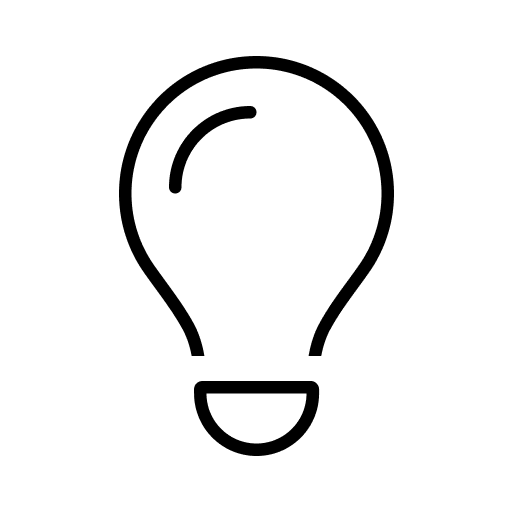
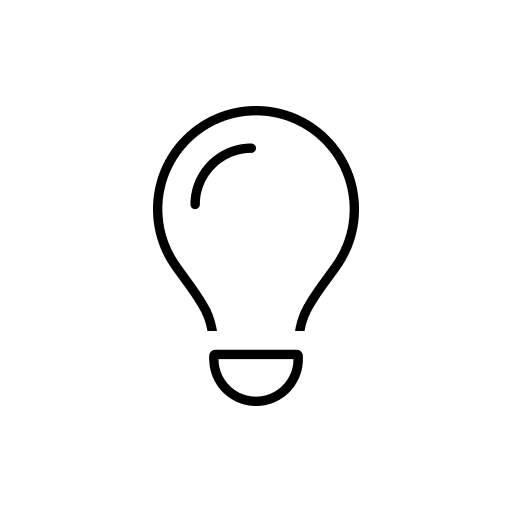
img

Changed region(s): [[0.2188, 0.0938, 0.7812, 0.9062]]

diff --git a/README.md b/README.md
@@ -625,28 +625,39 @@ adb reverse tcp:5173 tcp:5173
   GET host/slider5?value=(int color3)
 
 
-Passer de HTTPS en  HTTP PWA
 
-V2\interface\app\build.gradle
-        def launchUrl = "http://" + twaManifest.hostName + twaManifest.launchUrl
+### Forcer la constrution de l'APK en HTTP
 
+#### Modifier manuellement les fichier suivant
 
-V2\interface\app\src\main\res\values\strings.xml
-            \"site\": \"http://192.168.1.189\"
+Dans le repertoire contenant le code source pour build l'apk
 
+```
+// <path_2_pwa_builder>\app\build.gradle
 
-V2\interface\app\build\generated\res\resValues\release\values\gradleResValues.xml
-                <string name="launchUrl" translatable="false">http://192.168.1.189/</string>
+hostName: '192.168.1.189', 
+    def launchUrl = "http://" + twaManifest.hostName + twaManifest.launchUrl
+    launchUrl: '/'
+```
 
+```xml
+<!-- <path_2_pwa_builder>\app\src\main\res\values\strings.xml -->
 
-V2\interface\app\src\main\AndroidManifest.xml
-  android:usesCleartextTraffic="true"
-  android:networkSecurityConfig="@xml/network_security_config"
+\"site\": \"http://192.168.1.189\"
+```
 
-V2\interface\app\src\main\res\xml\network_security_config.xml
-  <?xml version="1.0" encoding="utf-8"?>
+```xml
+<!-- <path_2_pwa_builder>\app\src\main\AndroidManifest.xml -->
+android:usesCleartextTraffic="true"
+android:networkSecurityConfig="@xml/network_security_config"
+```
+
+```xml
+<!-- <path_2_pwa_builder>\app\src\main\res\xml\network_security_config.xml -->
+<?xml version="1.0" encoding="utf-8"?>
 <network-security-config>
   <domain-config cleartextTrafficPermitted="true">
     <domain includeSubdomains="true">192.168.1.189</domain>
   </domain-config>
 </network-security-config>
+```
